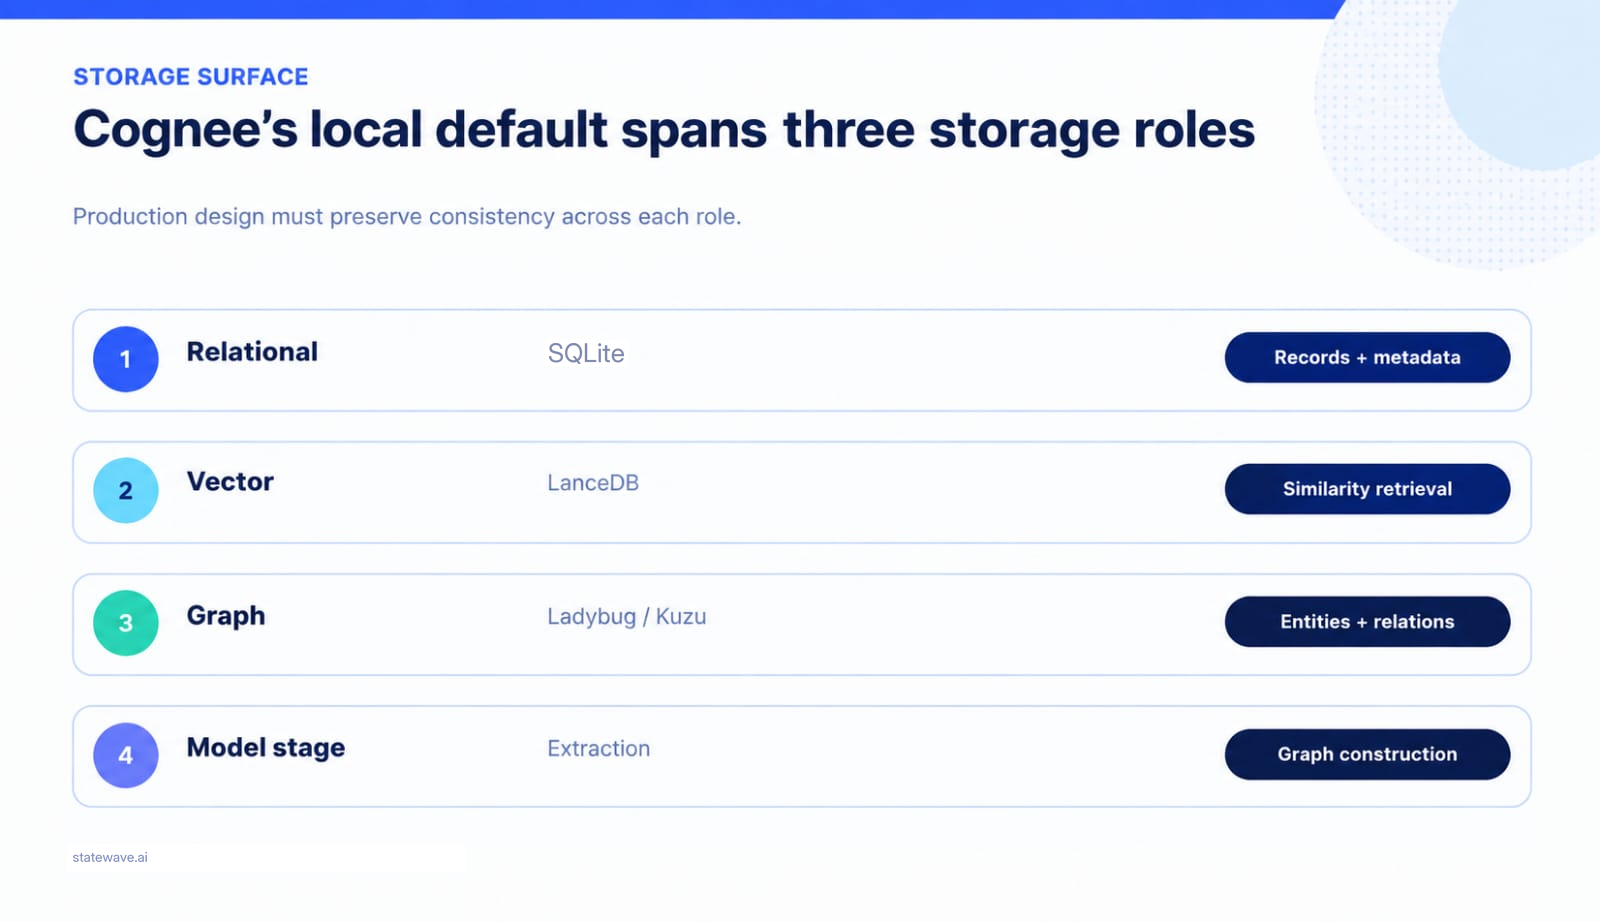
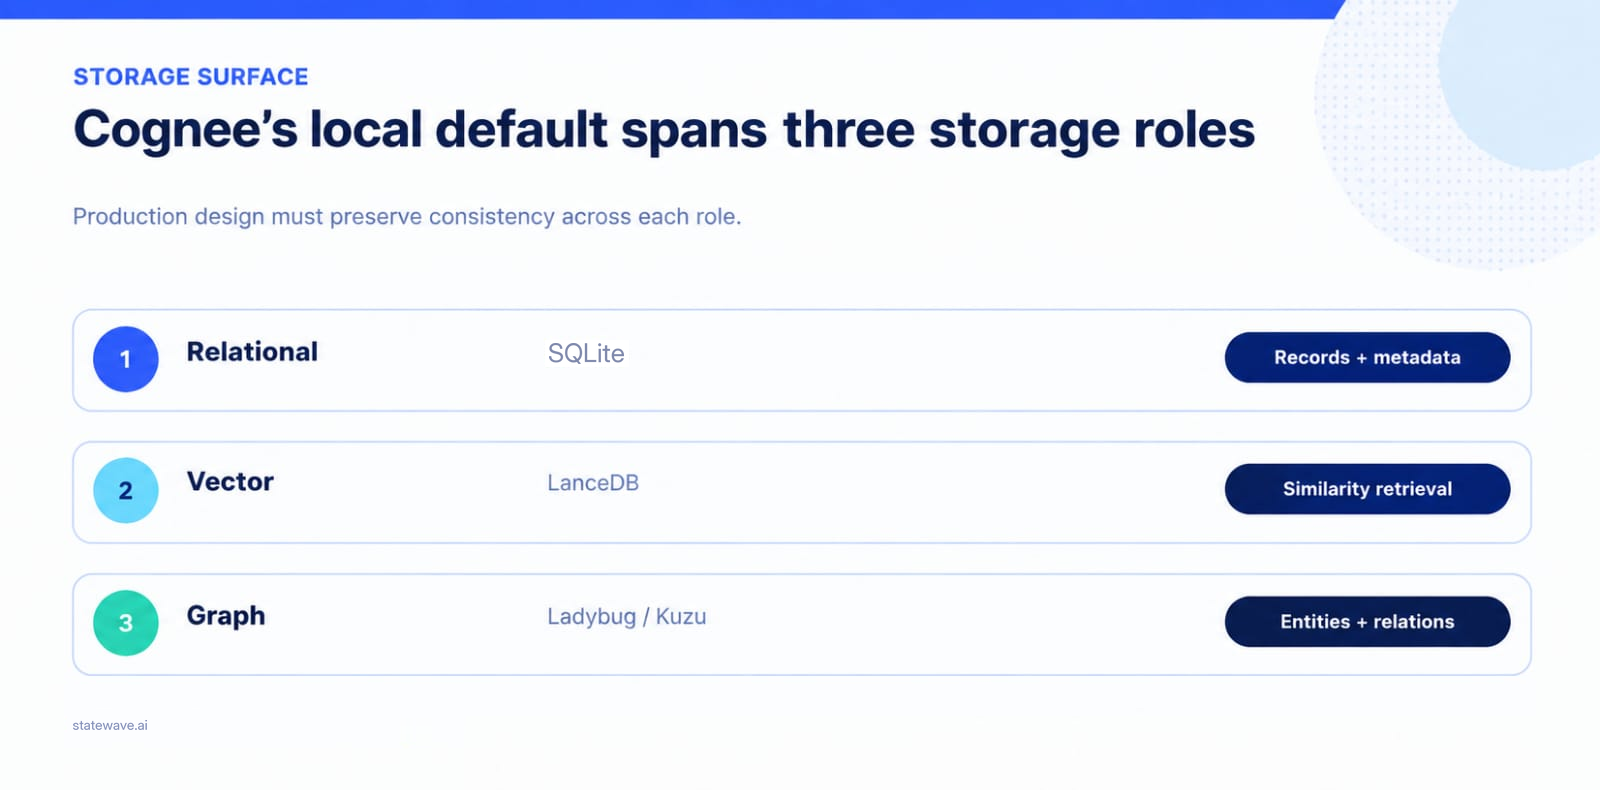
fix(blog): correct Letta and Cognee post claims and figures from review
- Receipts are opt-in, so both posts say "when receipts are enabled".
- Cognee: link the relational, vector, graph and permissions docs that back
  the defaults and provider counts, and state Cognee's own single-Postgres
  mode with the README's demo caveat instead of leaving it out.
- Letta: link the App Server; remote computers require signing in with
  Letta, and Letta's sources disagree on secrets (feature table vs. the
  secrets docs), so the post says both.
- GraphRAG keeps the README's "as appropriate, particularly to address
  CVEs" qualifier, in the post and its FAQ.
- Drop the internal "ICP" wording; soften the "every claim links the
  vendor" sentence; eval suite is 55 assertions, not 56.
- Letta image6: the six cards name exactly the README's eleven features.
- Letta image8: the "Mem0" label is redrawn in the same face, weight, size
  and colour as the other rows.
- Cognee image11: drop the "Model stage" row so the figure shows the three
  storage roles its headline names (the post covers extraction on its
  own), and remove the white patch behind the footer credit.

diff --git a/src/lib/blog-schema.ts b/src/lib/blog-schema.ts
@@ -538,7 +538,7 @@ export const POST_FAQ: Readonly<Record<string, readonly FaqEntry[]>> = {
     {
       question: 'Which alternative is best for global questions over documents?',
       answer:
-        'Microsoft GraphRAG is designed for corpus-level questions through entity communities and community reports. It is now in maintenance mode, so expect fixes and no new features. LightRAG is a more service-oriented option with several hybrid retrieval modes.',
+        'Microsoft GraphRAG is designed for corpus-level questions through entity communities and community reports. It is now in maintenance mode: expect bug fixes and dependency updates as appropriate, particularly to address CVEs, and no new features. LightRAG is a more service-oriented option with several hybrid retrieval modes.',
     },
   ],
 } as const
